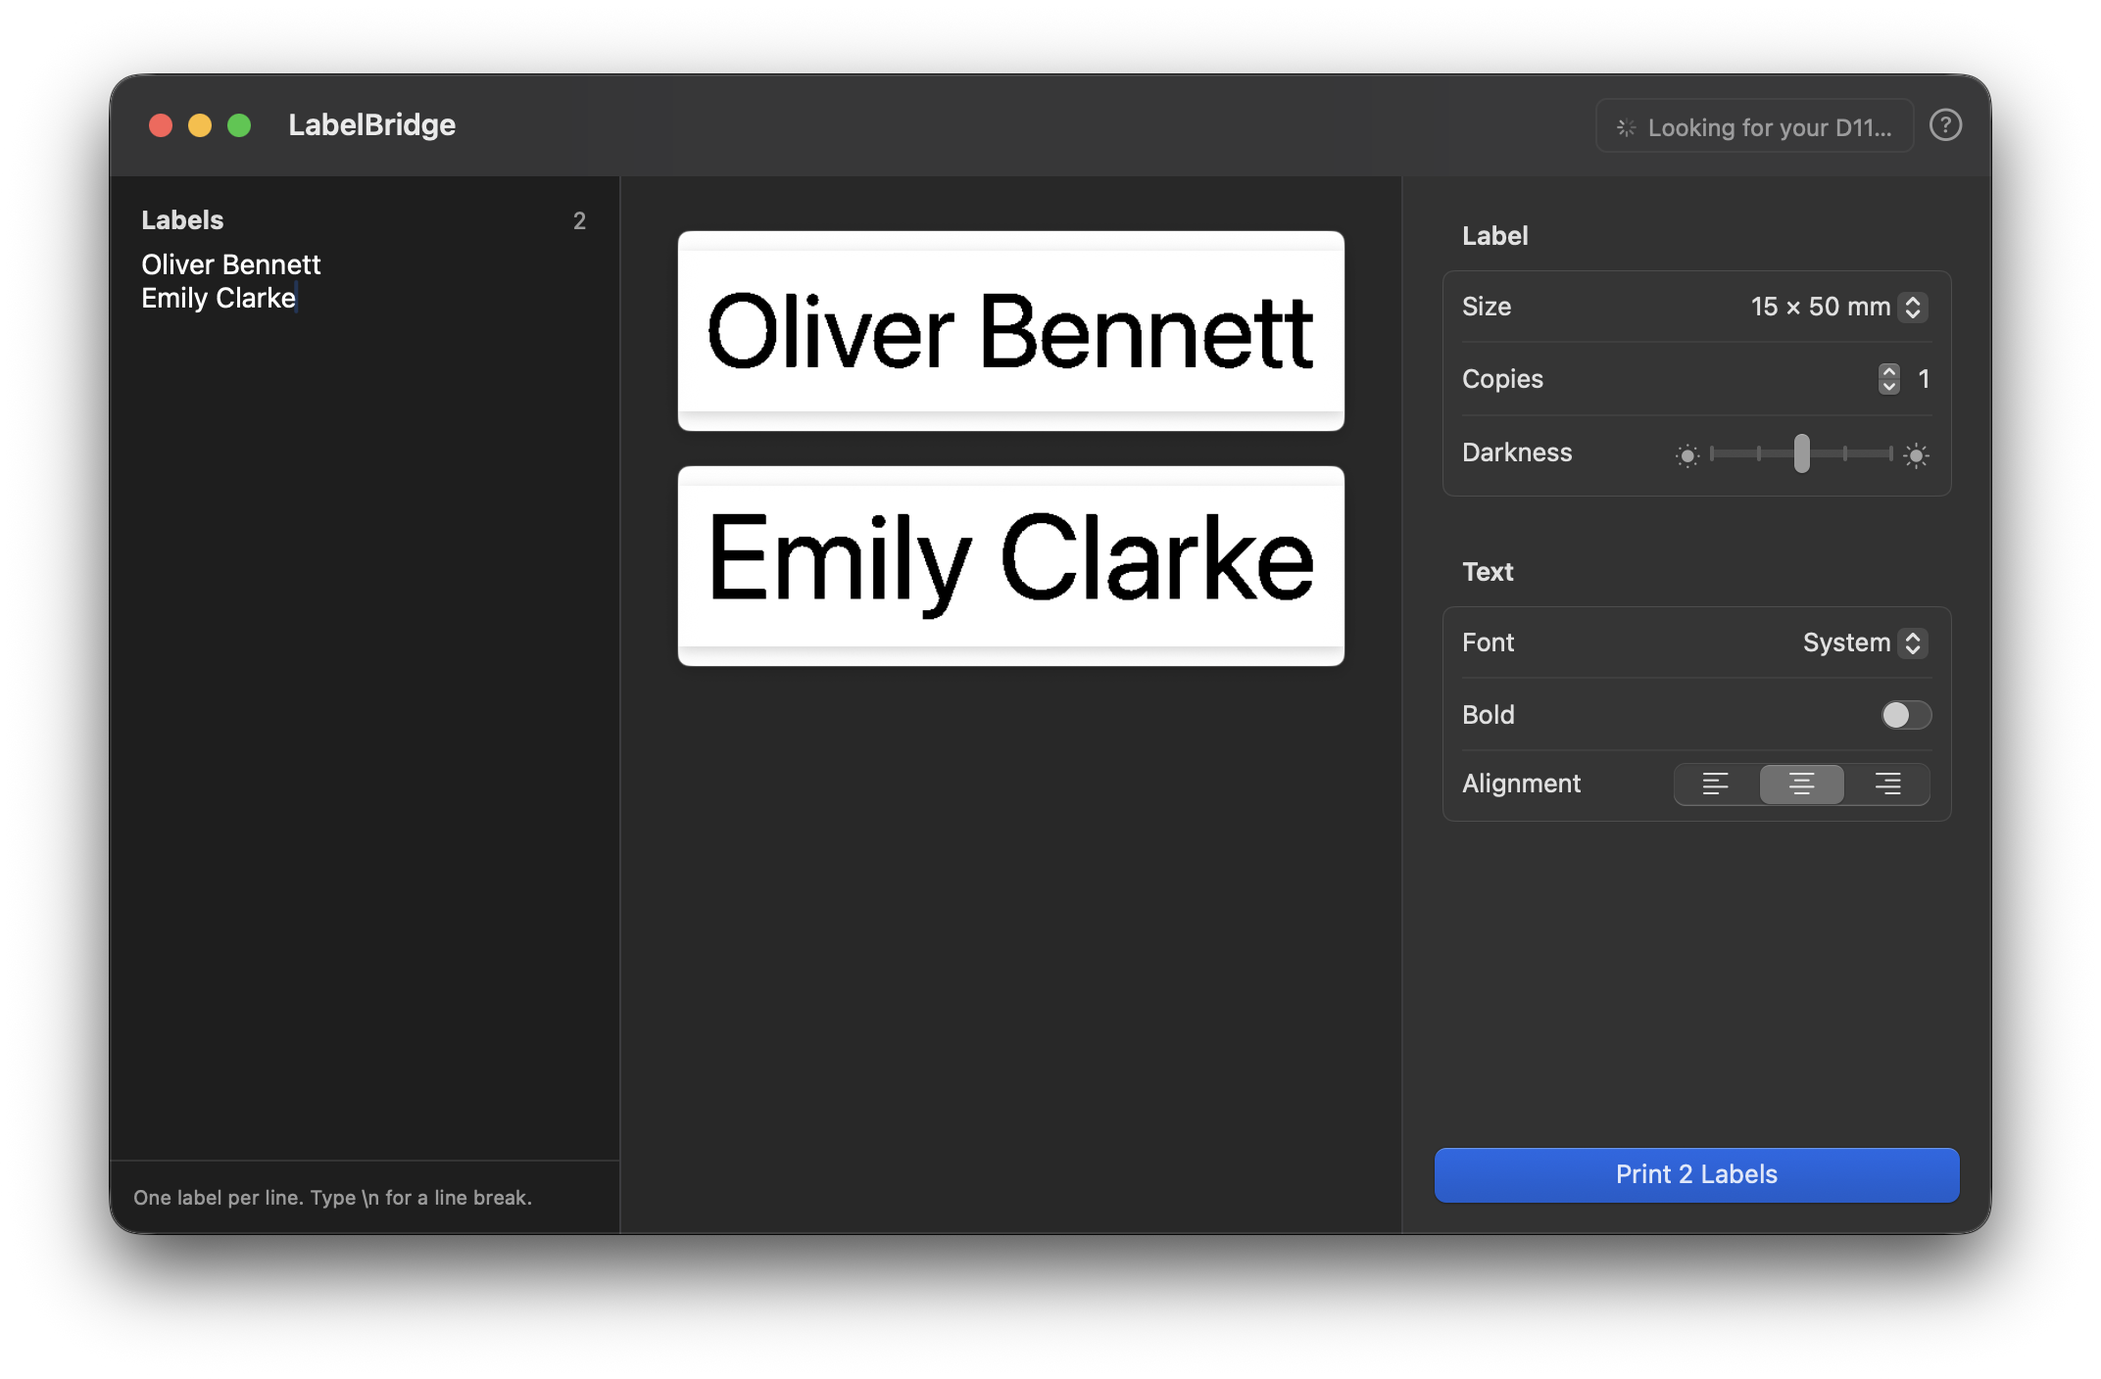
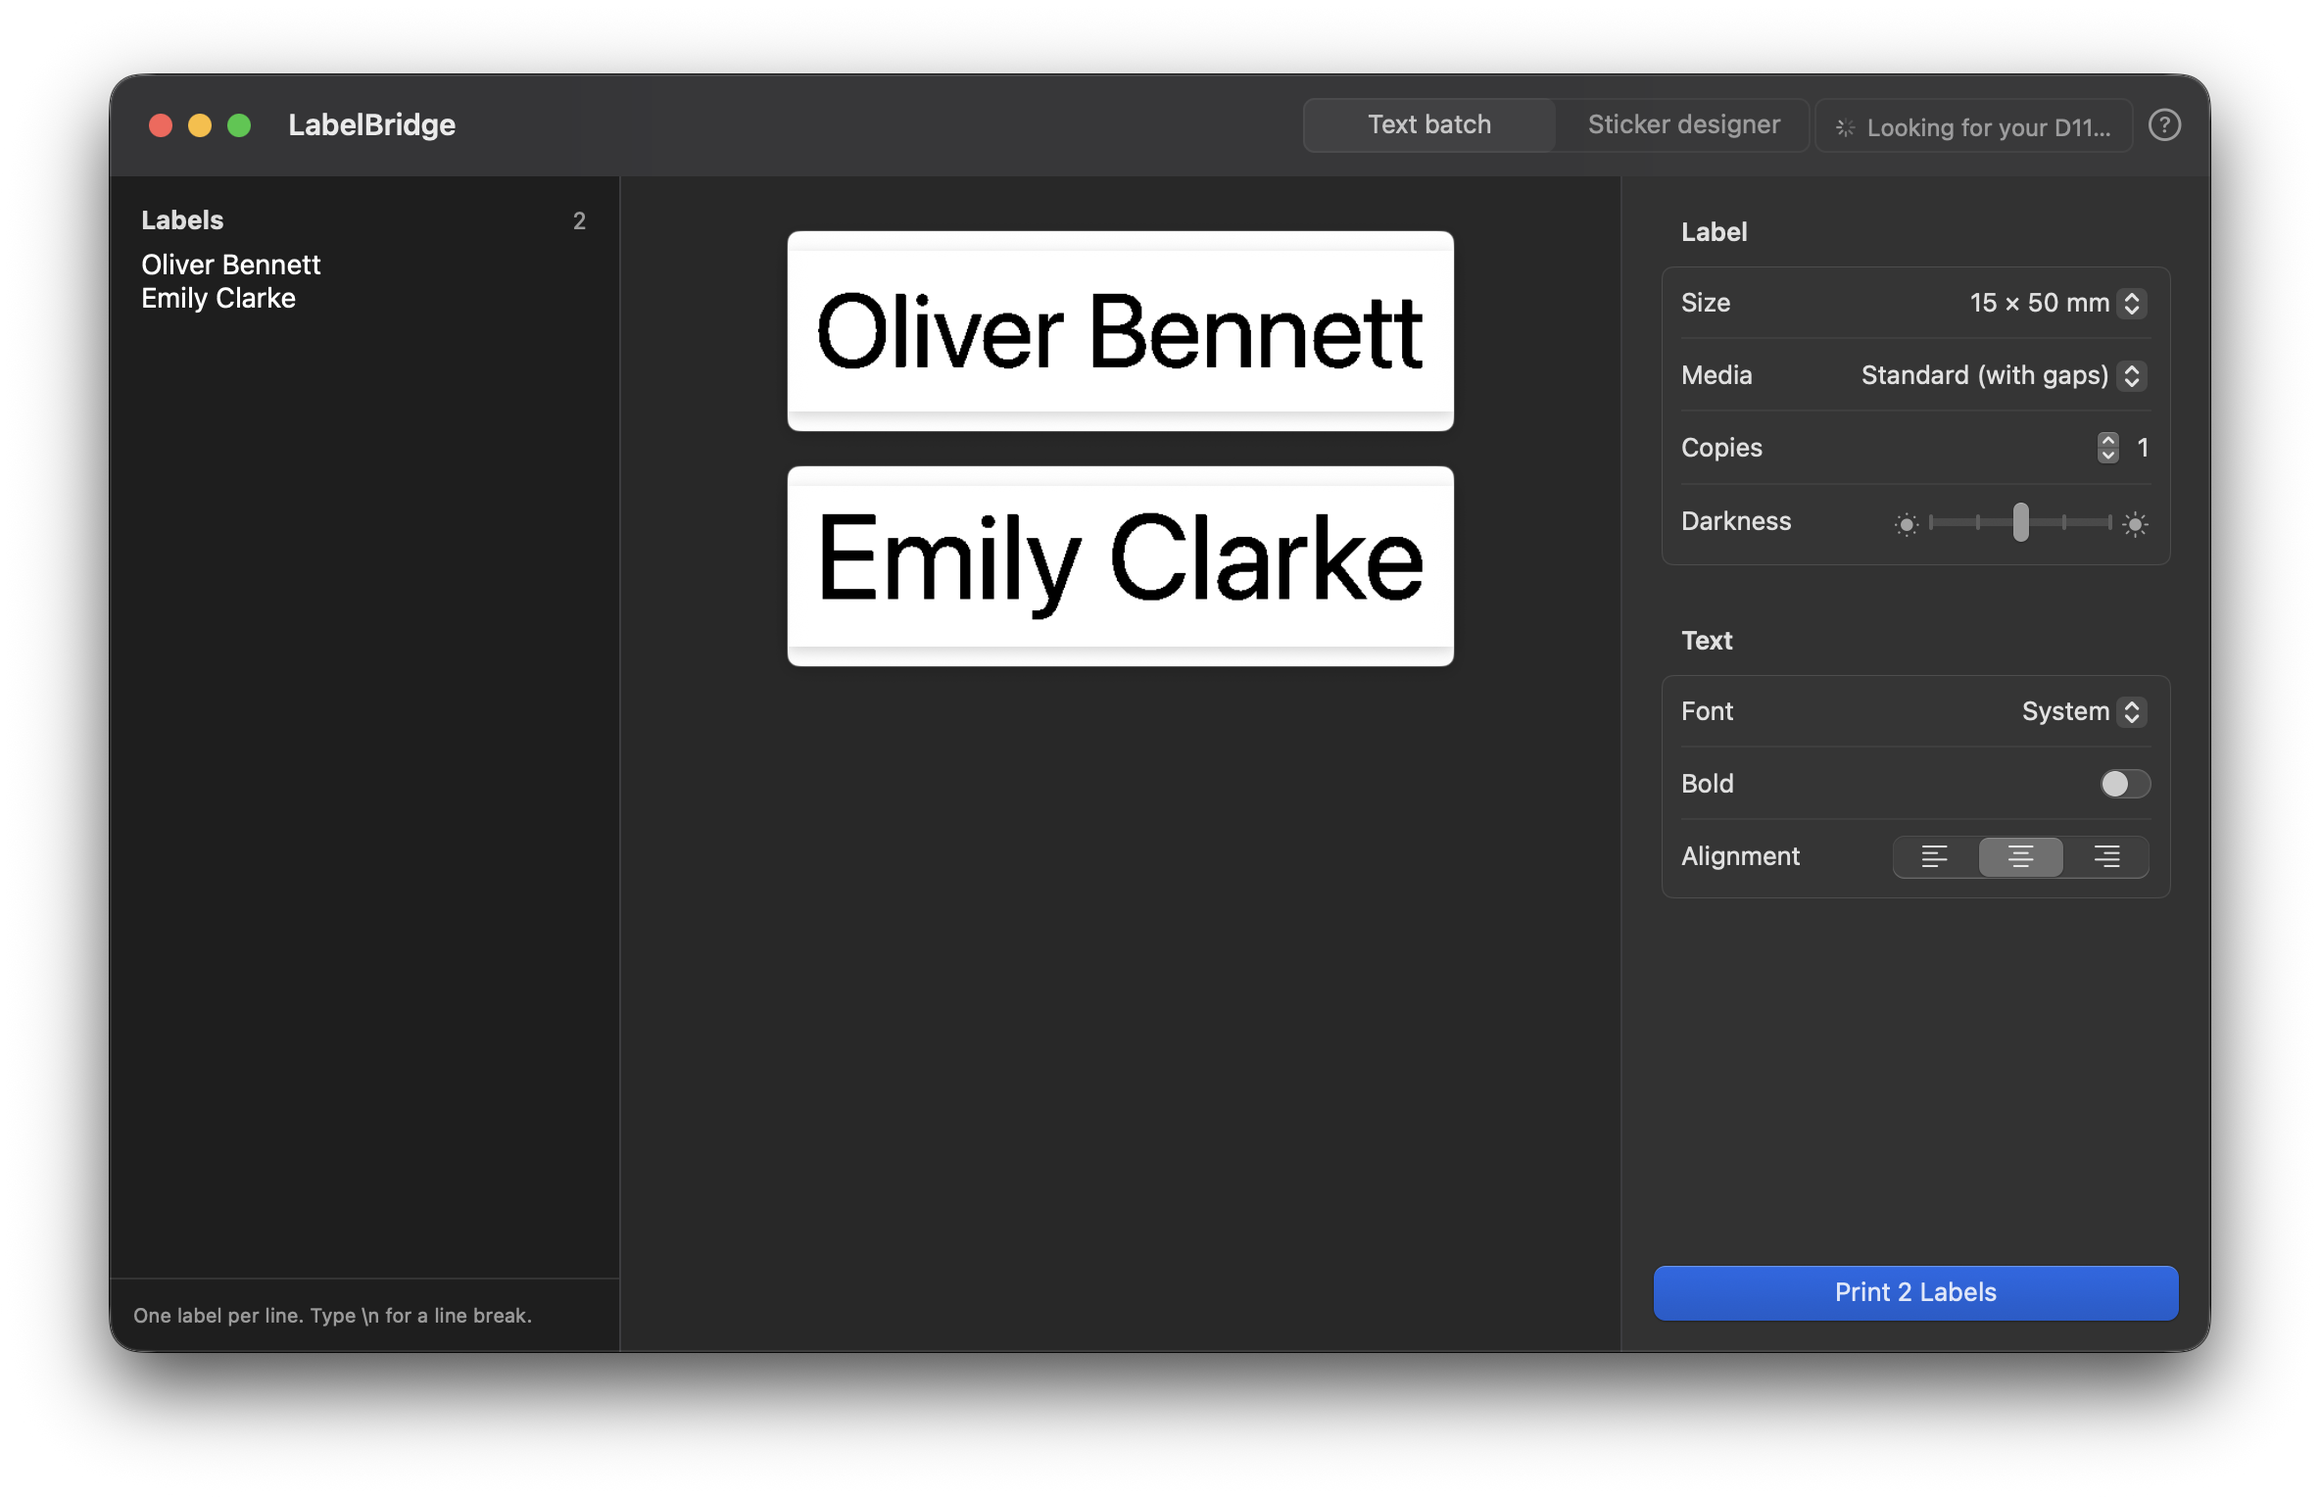
README: new screenshots, sticker commands, alignment and agent instructions
Claude-Session: https://claude.ai/code/session_01L3RaGhRUFzzpqaq62UBMty

diff --git a/README.md b/README.md
@@ -6,7 +6,8 @@ Print labels from your Mac to a **NIIMBOT D11 or D110** label printer **over Blu
 
 - **Batch labels:** paste a list, such as names, and get one label per line. Each label's text is sized to fill the label.
 - **Any language:** Hebrew, Arabic and other right-to-left scripts, mixed-direction text, CJK and emoji.
-- **Command line for AI agents and scripts:** `labelbridge print "Oliver" "Emily"`.
+- **Sticker designer:** paired 14 mm circles and rectangular labels with text and icons, templates, and exact millimetre positions.
+- **Command line for AI agents and scripts:** `labelbridge print "Oliver" "Emily"`, or stickers from your templates with `labelbridge sticker print "Names" --text "Oliver" --text "Emily"`.
 - **Any app's Print dialog:** a printer called **NIIMBOT D11 (Bluetooth)** with label paper sizes.
 
 ## Install
@@ -25,10 +26,11 @@ Requires macOS 13 or later, on Apple Silicon or Intel. LabelBridge is signed and
 
 ## Print from the window
 
-<p align="center"><img src="docs/screenshot.png" width="760" alt="The LabelBridge window: two labels typed on the left, their previews in the middle, and the size, copies, darkness and text options on the right"></p>
+<p align="center"><img src="docs/screenshot.png" width="760" alt="The LabelBridge window in Text batch mode: two labels typed on the left, their previews in the middle, and the size, media, copies, darkness and text options on the right"></p>
 
 Type or paste labels on the left, one per line. The middle shows a preview of each label at its real proportions. On the right you choose:
 - the label size,
+- the media (standard labels with gaps, or transparent),
 - copies,
 - darkness,
 - the font, bold and alignment.
@@ -39,6 +41,8 @@ Then click **Print** (⌘P). To put a line break inside a label, type `\n`.
 
 Choose **Sticker designer** at the top of the window:
 
+<p align="center"><img src="docs/screenshot-designer.png" width="760" alt="The sticker designer: templates on the left, two 14 mm circles with a microwave above Kitchen and a light bulb above Hallway, the Hallway text selected with its resize handle, and the text options on the right"></p>
+
 1. Pick a template: **Appliances**, **Icons + text**, **Names**, **Blank circles**, or **Blank rectangle**.
 2. Use **Add Text** and **Add Icon** to add as many objects as needed. The icon library includes household appliances, lights and common symbols.
 3. Click an object to select it. Drag it to move it, or drag its blue bottom-right handle to resize it. The inspector also provides exact X, Y, width and height in millimetres.
@@ -47,7 +51,9 @@ Choose **Sticker designer** at the top of the window:
 
 The circular template is two **14 mm circles** on a **14 × 28 mm** feed unit. Either circle can contain multiple independent text and icon objects, or remain blank. Circle outlines and selection handles are preview-only. The D110's print band is about 12 mm wide; the preview shows the actual printable ink and warns when content is clipped or text does not fit.
 
-The current draft is saved automatically on this Mac. **Save Template** adds a named design to **My Templates**, ready to reuse. Undo and redo cover template changes, object edits, moves and resizing. The original one-label-per-line workflow remains under **Text batch**; CLI and Print-dialog jobs are unchanged and do not implicitly print the visual design.
+The current draft is saved automatically on this Mac. **Save Template** adds a named design to **My Templates**, ready to reuse, also from the command line (see [Print stickers from the command line](#print-stickers-from-the-command-line)). Undo and redo cover template changes, object edits, moves and resizing. The original one-label-per-line workflow remains under **Text batch**. Print-dialog jobs always print as text-batch labels.
+
+**Alignment:** to check where your printer puts ink on a sticker roll, click **Print Alignment Test** under **Alignment** in the inspector. For paired circles, it prints a ring and a cross in the middle of each circle, with a dot marking the left one. If they're off-centre, set **Move right** or **Move down** (in mm; negative values move left or up) and test again. The offset applies to every sticker printed, from the window and from the command line.
 
 ## Print from the command line
 
@@ -65,7 +71,40 @@ labelbridge status                                # app and printer status
 labelbridge sizes                                 # built-in label sizes
 ```
 
-**Options**
+### Print stickers from the command line
+
+`labelbridge sticker` prints sticker designs: a built-in or saved template (by name or id), `draft` for the design open in the designer, or a `.json` design file. `--text` replaces the design's text objects in order, so one template prints any names or captions.
+
+```sh
+labelbridge sticker list                                    # templates, your saved ones, and the draft
+labelbridge sticker print "Names" --text "Oliver" --text "Emily"
+labelbridge sticker print "Icons + text" --text "Kitchen" --text "Hallway" --media transparent
+labelbridge sticker print draft --copies 3                  # two-circle designs: one copy = one pair
+labelbridge sticker print --json --dry-run "Names" --text "Oliver"
+labelbridge sticker preview "Names" --text "Oliver" --out /tmp/stickers   # PNG, no printer needed
+labelbridge sticker export "Icons + text" --out kitchen.json               # edit, then:
+labelbridge sticker print kitchen.json
+labelbridge sticker icons                                   # icon names for design files
+labelbridge sticker alignment                               # alignment test print
+```
+
+A design file lists objects with millimetre positions from the label's top-left corner:
+
+```json
+{
+  "size": { "widthMM": 14, "lengthMM": 28 },
+  "shape": "twoCircles",
+  "objects": [
+    { "content": { "icon": "lightbulb" }, "frame": { "x": 3, "y": 2, "width": 8, "height": 6 } },
+    { "content": { "text": "Hallway" }, "frame": { "x": 16, "y": 9, "width": 10, "height": 3 },
+      "style": { "bold": true } }
+  ]
+}
+```
+
+`style` is optional: `fontName`, `bold`, `italic`, `alignment` (`center`, `leading`, `trailing`) and `fontSizePoints` (1–72; leave it out to fit the text to its object). `shape` is `twoCircles` (14 × 28 mm) or `rectangle`.
+
+### Options for `print` and `preview`
 
 | Option | Default | Meaning |
 |---|---|---|
@@ -95,7 +134,8 @@ LabelBridge.app.
 
 One label per argument, or one per line with --file or stdin (-). Type \n
 inside a label for a line break. Any language works, including Hebrew and
-Arabic. Defaults (size, media, darkness, font, alignment) come from the app's window.
+Arabic. Defaults (size, media, darkness, font, alignment) come from the app's
+window.
 
 EXAMPLES:
   labelbridge print "Dana" "Yossi" "محمد"
@@ -104,10 +144,18 @@ EXAMPLES:
   labelbridge print --json "Spices\nTop shelf"
   labelbridge preview "Dana" --out /tmp/labels
 
+STICKERS (designs from the app's sticker designer):
+  labelbridge sticker list
+  labelbridge sticker print "Names" --text "Dana" --text "Yossi"
+  labelbridge sticker print draft --copies 2
+  See `labelbridge help sticker`.
+
 FOR AI AGENTS:
   Add to the agent's instructions:
   "To print labels, run `labelbridge print --json`
-   with one label per argument."
+   with one label per argument. For stickers, run
+   `labelbridge sticker list`, then
+   `labelbridge sticker print --json TEMPLATE --text …`."
 
 EXIT CODES:
   0  printed
@@ -124,6 +172,8 @@ OPTIONS:
 SUBCOMMANDS:
   print (default)         Print labels (default command).
   preview                 Write label images (PNG) without printing.
+  sticker                 Print sticker designs: templates, the designer's
+                          draft, or a .json design file.
   status                  Show whether LabelBridge.app and the printer are
                           available.
   sizes                   List built-in label sizes (width x length, mm).
@@ -165,7 +215,7 @@ OPTIONS:
 
 OVERVIEW: Write label images (PNG) without printing.
 
-USAGE: labelbridge preview [<items> ...] [--file <file>] [--size <size>] [--density <density>] [--copies <copies>] [--align <align>] [--font <font>] [--bold] [--out <out>]
+USAGE: labelbridge preview [<items> ...] [--file <file>] [--size <size>] [--density <density>] [--media <media>] [--copies <copies>] [--align <align>] [--font <font>] [--bold] [--out <out>]
 
 ARGUMENTS:
   <items>                 Label texts. Use - to read lines from stdin.
@@ -175,12 +225,103 @@ OPTIONS:
   --size <size>           Label size in mm, width x length, e.g. 15x50 (see
                           `labelbridge sizes`).
   --density <density>     Darkness 1–5 (default 3).
+  --media <media>         Label media: gaps or transparent (default: the app's
+                          setting).
   --copies <copies>       Copies of each label. (default: 1)
   --align <align>         center, leading or trailing. Leading is the start of
                           the line: the right side for Hebrew and Arabic.
   --font <font>           Font family name, e.g. "Arial Hebrew".
   --bold                  Bold text.
   --out <out>             Output directory. (default: .)
+  -h, --help              Show help information.
+
+
+────────
+
+OVERVIEW: Print sticker designs: templates, the designer's draft, or a .json
+design file.
+
+A DESIGN is a template name or id (`labelbridge sticker list`), `draft` for the
+design open in the app's sticker designer, or the path of a .json design file
+(`labelbridge sticker export` writes one to start from). Use --text to fill the
+design's text objects in order, for example the two circles of the "Names"
+template.
+
+EXAMPLES:
+  labelbridge sticker list
+  labelbridge sticker print "Names" --text "Dana" --text "Yossi"
+  labelbridge sticker print "Icons + text" --text "Oven" --text "Hall" --media
+transparent
+  labelbridge sticker print draft --copies 3
+  labelbridge sticker preview "Names" --text "Dana" --text "Yossi" --out
+/tmp/stickers
+  labelbridge sticker export "Icons + text" --out kitchen.json
+  labelbridge sticker print kitchen.json --json
+  labelbridge sticker alignment --media transparent
+
+USAGE: labelbridge sticker <subcommand>
+
+OPTIONS:
+  -h, --help              Show help information.
+
+SUBCOMMANDS:
+  list                    List sticker templates and the designer's draft.
+  print                   Print a sticker design.
+  preview                 Write a sticker design as a PNG without printing.
+  export                  Write a design as JSON, to edit and print with
+                          `sticker print FILE`.
+  icons                   List the icons a design can use.
+  alignment               Print an alignment test to check where ink lands on a
+                          sticker roll.
+
+  See 'labelbridge help sticker <subcommand>' for detailed help.
+
+────────
+
+OVERVIEW: Print a sticker design.
+
+Prints the design --copies times and waits until done. For the two-circle
+templates, one copy is one pair. With --json, prints {"ok", "printed", "total",
+"warnings", "error"} to stdout. Exit codes are the same as `labelbridge print`.
+The app's print offset (sticker designer › Alignment) is applied.
+
+USAGE: labelbridge sticker print <design> [--text <text> ...] [--copies <copies>] [--density <density>] [--media <media>] [--dry-run] [--json]
+
+ARGUMENTS:
+  <design>                Template name or id, `draft`, or a .json design file.
+
+OPTIONS:
+  -t, --text <text>       Text for the design's text objects, in order. Repeat
+                          for each one; \n breaks a line.
+  --copies <copies>       Copies (pairs, for two-circle designs). (default: 1)
+  --density <density>     Darkness 1–5 (default: the app's setting).
+  --media <media>         Label media: gaps or transparent (default: the app's
+                          setting).
+  --dry-run               Render only; don't print.
+  --json                  Print the result as JSON.
+  -h, --help              Show help information.
+
+
+────────
+
+OVERVIEW: Write a design as JSON, to edit and print with `sticker print FILE`.
+
+Sizes and positions are millimetres from the label's top-left corner; size is
+{widthMM, lengthMM}. Each object is {"content": {"text": "…"} or {"icon": "…"},
+"frame": {x, y, width, height}, "style": {…}}. "id" and "style" may be left
+out. Style: fontName, bold, italic, alignment (center, leading, trailing),
+fontSizePoints (1–72; leave out to fit the object). Shape "twoCircles" needs
+size 14x28.
+
+USAGE: labelbridge sticker export <design> [--text <text> ...] [--out <out>]
+
+ARGUMENTS:
+  <design>                Template name or id, `draft`, or a .json design file.
+
+OPTIONS:
+  -t, --text <text>       Text for the design's text objects, in order. Repeat
+                          for each one; \n breaks a line.
+  --out <out>             Output file (default: stdout).
   -h, --help              Show help information.
 
 
@@ -199,9 +340,17 @@ OPTIONS:
 
 ### Instructions for AI agents
 
-Add this to your agent's instructions (for example `CLAUDE.md`):
+Add this to your agent's instructions (for example `CLAUDE.md`). It's also in the app under Help › AI Agents, with a Copy button:
 
-> To print labels, run `labelbridge print --json` with one label per argument.
+```text
+To print labels on my NIIMBOT label printer, use the `labelbridge` command:
+- Text labels: `labelbridge print --json "First label" "Second label"` (one label per argument; \n inside a label breaks the line).
+- Stickers: run `labelbridge sticker list` to see the templates, then `labelbridge sticker print --json "TEMPLATE" --text "…" --text "…"`. Each --text fills the template's next text object; for two-circle templates each copy is one pair of circles.
+- Check first without printing: add `--dry-run`. Preview as PNG: `labelbridge preview …` or `labelbridge sticker preview … --out DIR`.
+- Run `labelbridge help sticker` for design files and more options.
+```
+
+Design a sticker once in the app and save it with **Save Template**; the agent can then print it by name with different text.
 
 The agent's shell must be able to reach `~/Library/Application Support/LabelBridge/` and launch apps. Some sandboxed agent shells block this. You'll then see exit code `5`. Allow that folder, or run the command outside the sandbox.
 
@@ -225,7 +374,8 @@ Choose **NIIMBOT D11 (Bluetooth)** in the Print dialog and pick a label size und
 - **Bluetooth access needed:** allow LabelBridge in System Settings › Privacy & Security › Bluetooth.
 - **Text looks too light:** raise the darkness.
 - **Logs:** `~/Library/Logs/LabelBridge.log`. Open them from Help › Open Log.
-- **More help:** Help › LabelBridge Help (⌘?) in the app covers printing, the command line, AI agents and troubleshooting.
+- **Stickers print off-centre:** print an alignment test (sticker designer › Alignment, or `labelbridge sticker alignment`) and set the offset.
+- **More help:** Help › LabelBridge Help (⌘?) in the app covers printing, stickers, the command line, AI agents and troubleshooting.
 - **Repair or uninstall:** LabelBridge › Settings.
 
 ## Supported printers
